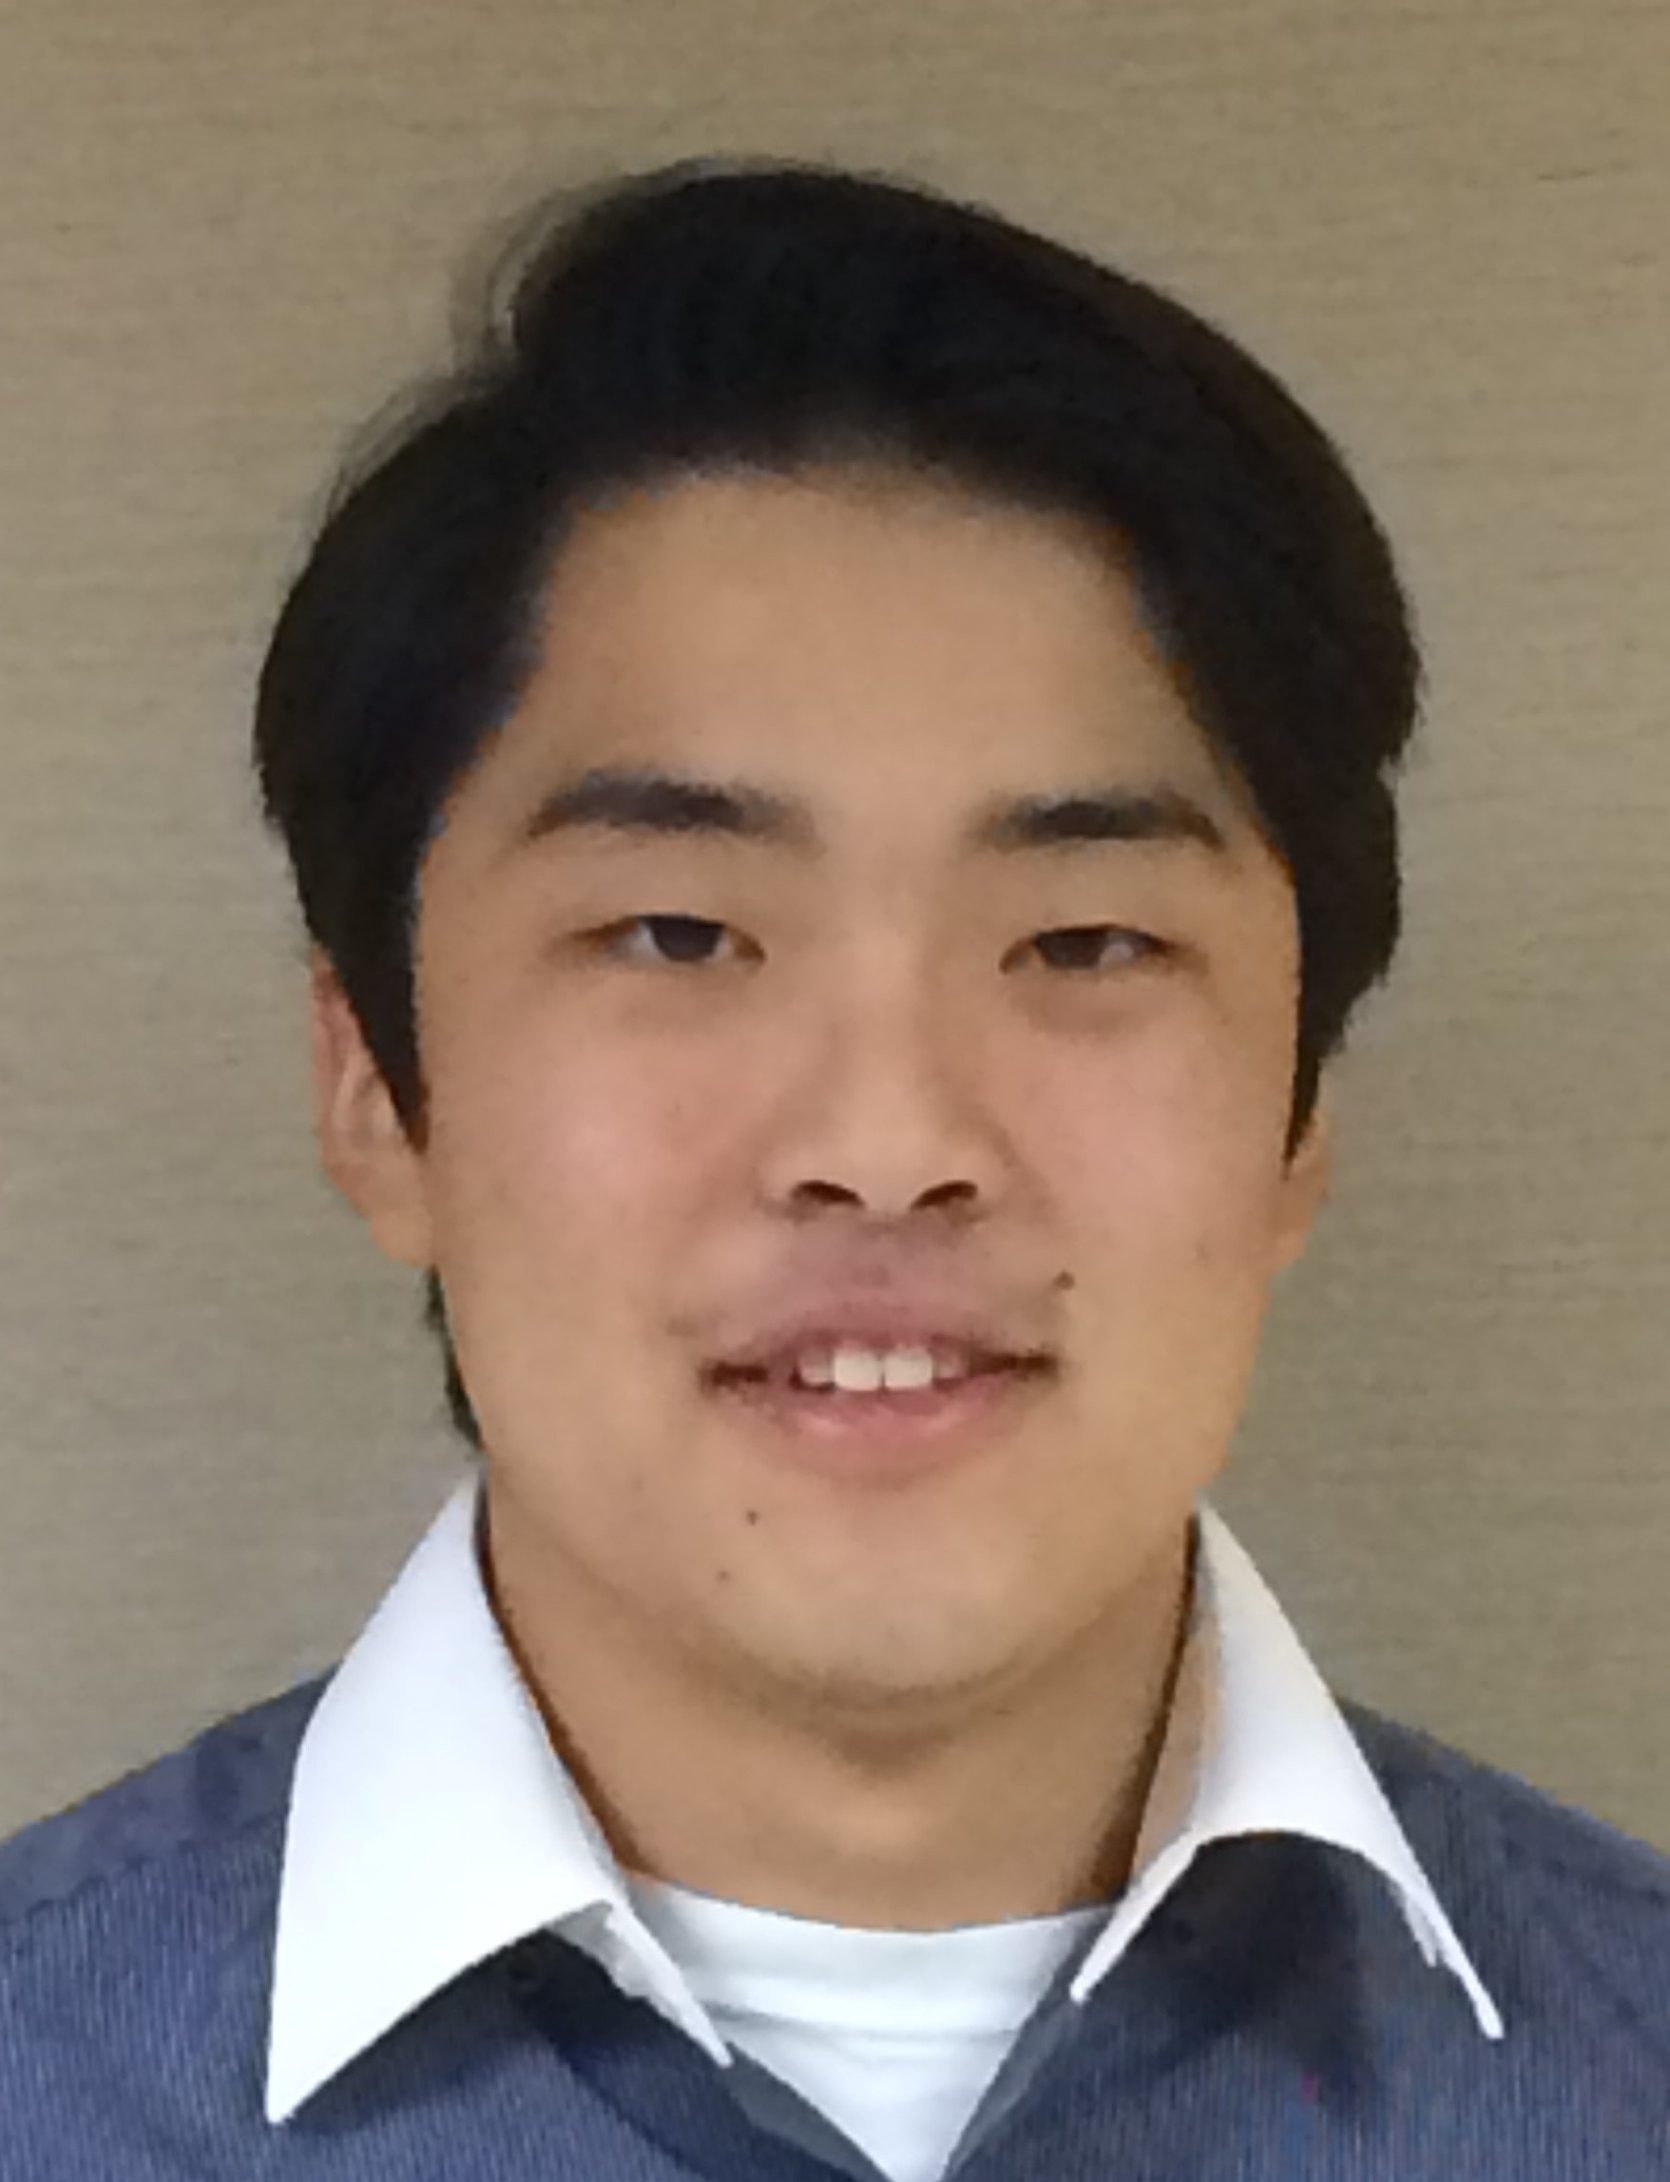
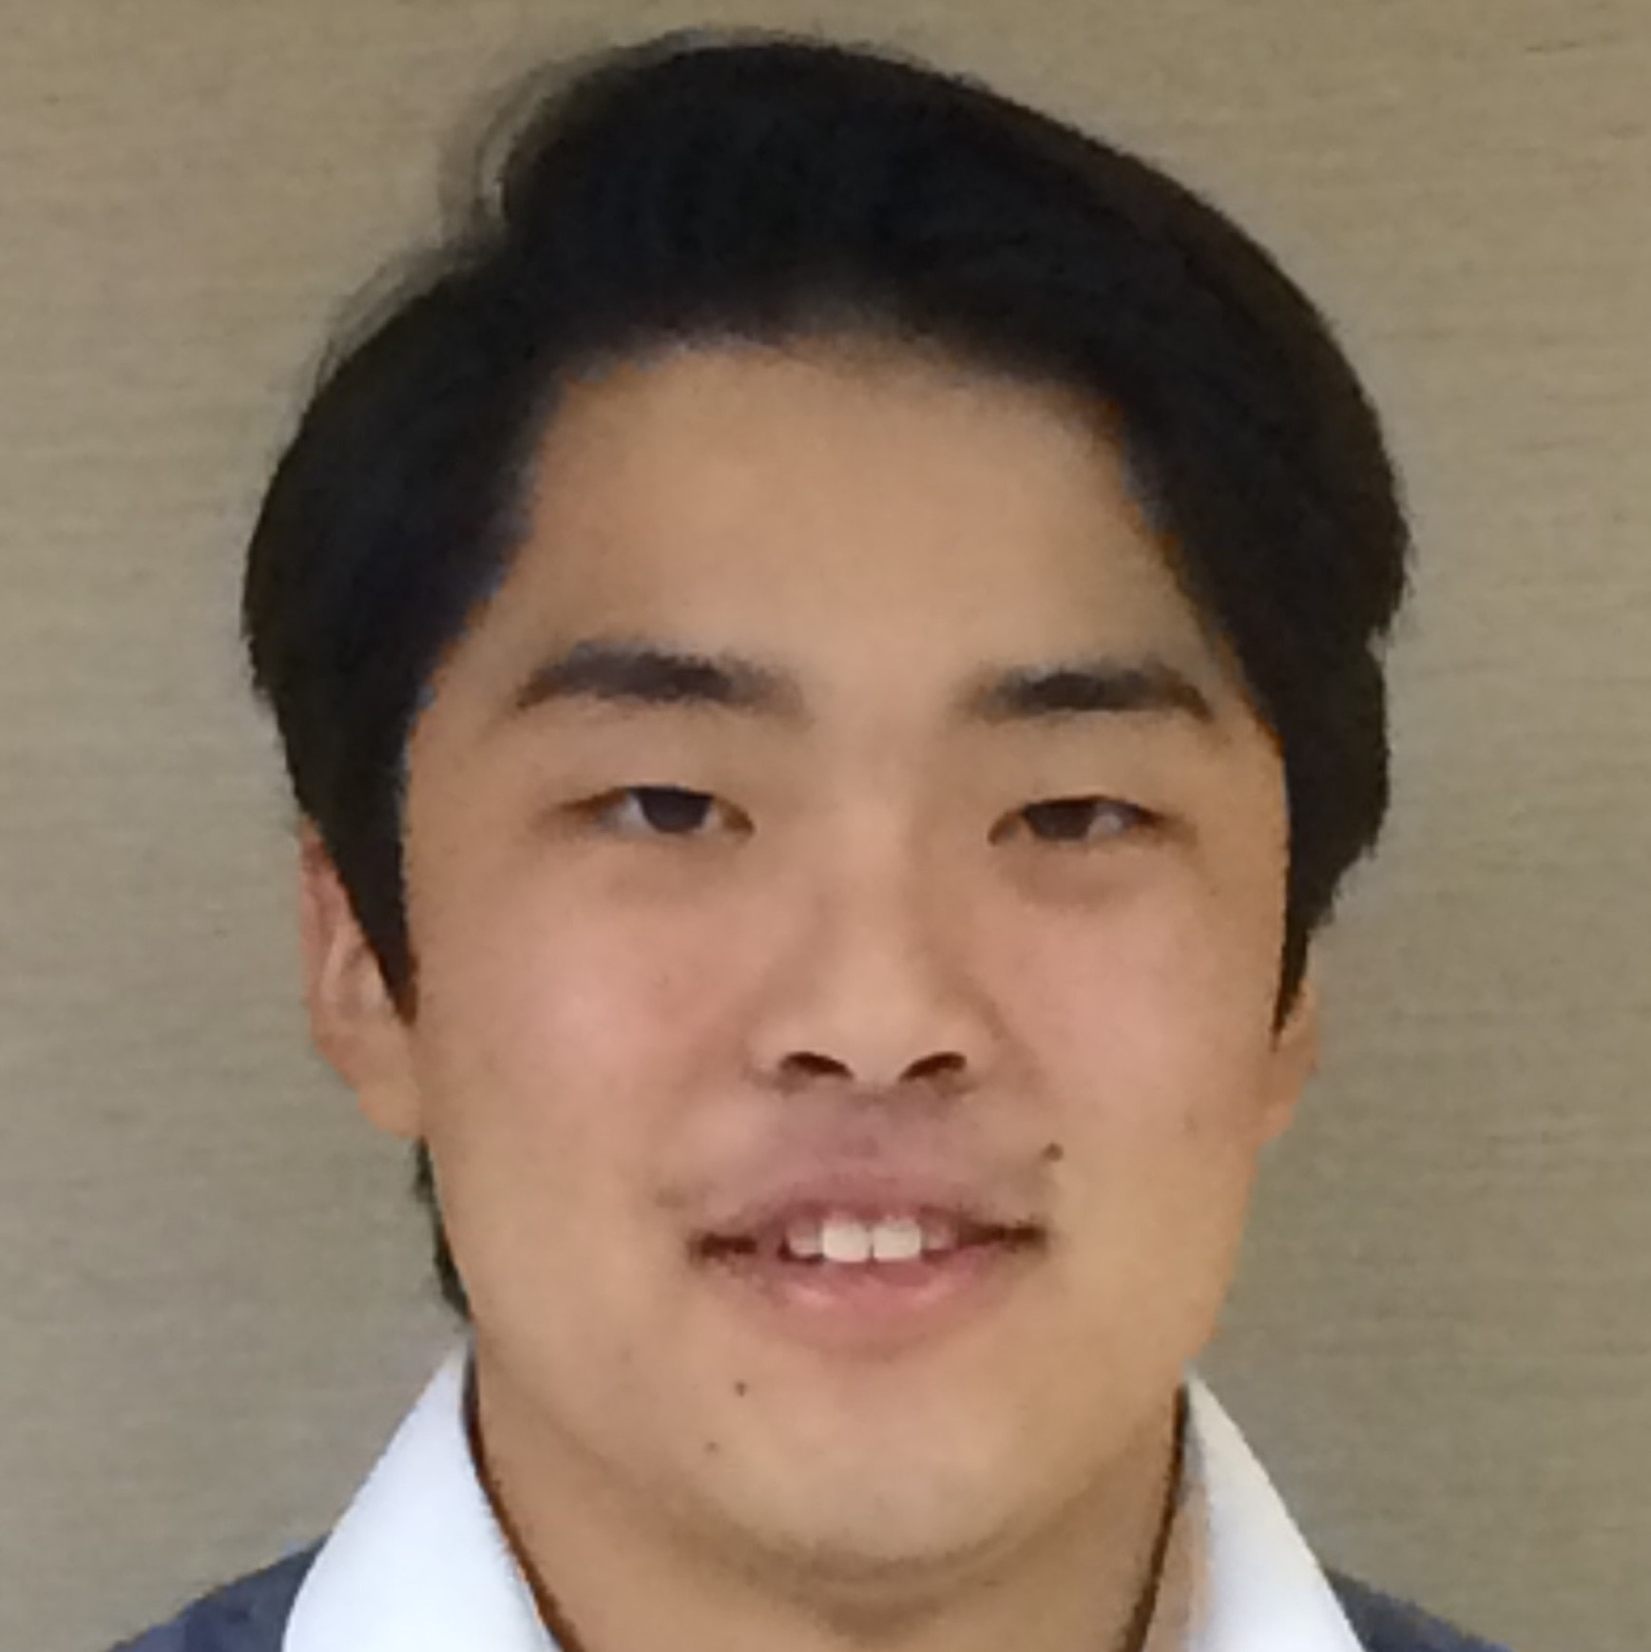
added jason k to team

diff --git a/pages/team.md b/pages/team.md
@@ -28,3 +28,5 @@ header:
 {% include team_member member_name="Zach" bio="<strong>Zachary Skidmore</strong> is a staff scientist at the McDonell Genome Institute at Washington University in Saint Louis. His undergraduate work was completed at the Ohio State University where he obtained a B.Sc. in molecular biology. His Graduate work was performed at the University of Illinois where he obtained a M.eng in bioinformatics. His research focus is in the realm of cancer biology where he uses and develops tools and techniques to aid in the analysis and interpretation of cancer sequencing data. He has worked on several large sequencing projects across many cancer types and has expertise in a variety of languages (perl, R, bash, python, typescript, angular2). He is also the creator and maintainer of the bioconductor package GenVisR, a graphics program designed to help visualize cohort level genomic data." image="/assets/img/team/zachary_skidmore.jpg" role="Staff Scientist/Bioinformatician" %}
 
 {% include team_member member_name="Susanna" bio='<strong>Susanna Kiwala</strong> is a Programmer Analyst at the McDonnell Genome Institute at Washington University in St. Louis. She obtained her M.eng in Computer Science from Southern Illinois University in Edwardsville. She is the lead software developer for the <a href="https://civic.genome.wustl.edu/home">Clinical Interpretations of Variants in Cancer project</a>, the <a href="http://dgidb.org/">Drug Gene Interaction Database</a>, and <a href="https://github.com/griffithlab/pVAC-Tools">pVACtools</a>.' image="/assets/img/team/susanna_kiwala.jpeg" role="Programmer Analyst" %}
+
+{% include team_member member_name="Jason_K" bio="<strong>Jason Kunisaki</strong> is post-baccalaureate premedical student who recently graduated from Washington University in St. Louis with a degree in Genomics and Computational Biology. As an aspiring physician scientist, his research interests lie in the development and application of computational tools to effectively analyze large sequencing datasets. Through this, he is able to identify and characterize novel genomic events as diagnostic and prognostic biomarkers in cancer, which can support improved personalized strategies against the disease. Over the years, he has contributed to several development projects including DoCM, GenVisR, and Regtools. He has also been heavily involved a number of cohort-level investigations spanning several cancer types such as heptocellular carcinoma (cirrhotic, noncirrhtoic, fibrolamellar, and mixed fibrolamellar), adult T-cell leukemia, and osteosarcoma." image="/assets/img/team/jason_kunisaki.jpg" role="Data Analyst/Bioinformatician" %}
